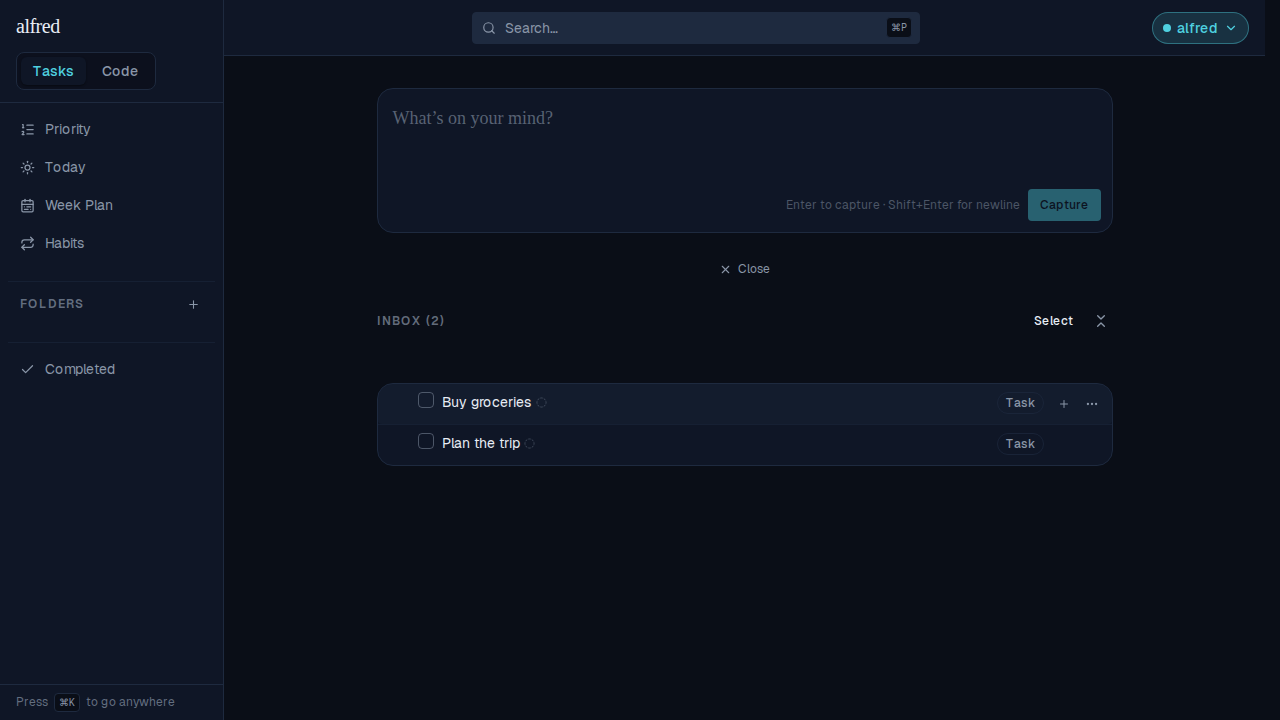
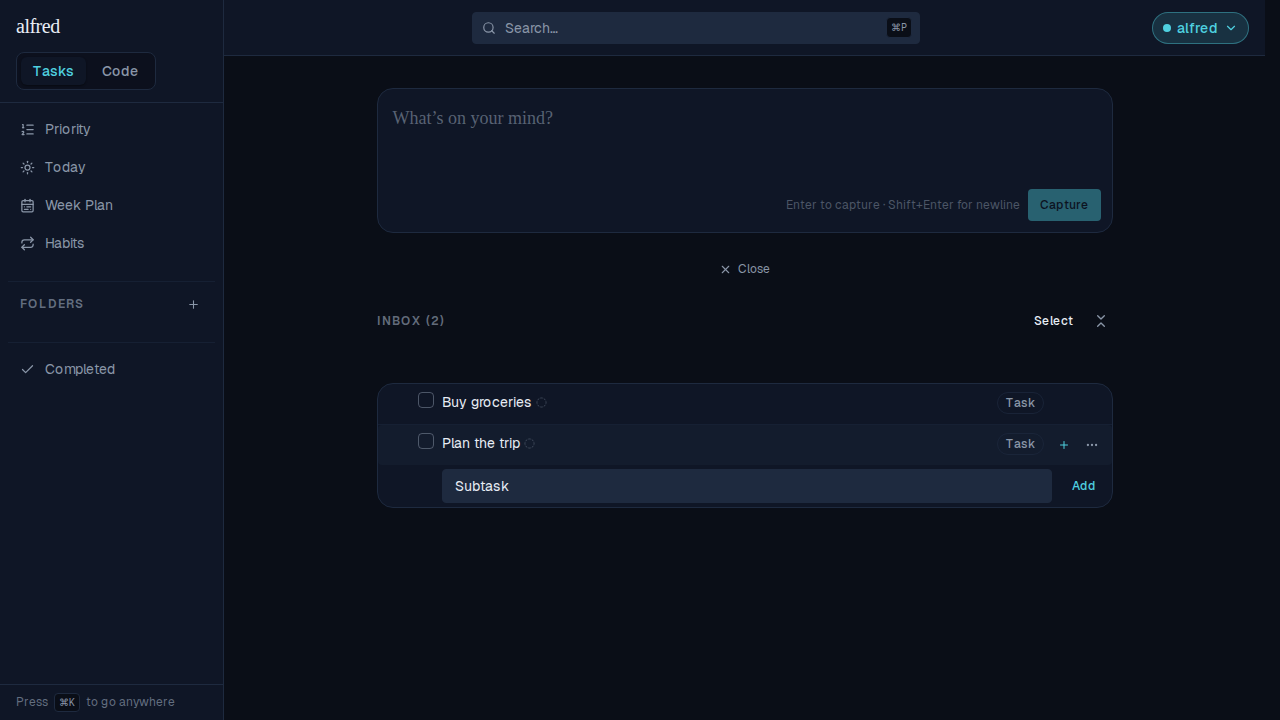
docs(demos): demo the net-new unfocused-dismiss behavior for alf-127

Changed region(s): [[0.3438, 0.6417, 0.875, 0.7028]]

diff --git a/docs/demos/ALF-127-subtask-dismiss-click-outside/subtask-dismiss-click-outside.md b/docs/demos/ALF-127-subtask-dismiss-click-outside/subtask-dismiss-click-outside.md
@@ -2,20 +2,22 @@
 branch: claude/dismiss-subtask-entry-click-0mpez0
 ---
 
-# Click outside dismisses the add-subtask entry
+# Dismissing the add-subtask entry while unfocused
 
-*2026-09-10T21:53:22.858Z*
+*2026-09-11T17:51:22.175Z*
 
-ALF-127: clicking anywhere outside the inline "Add subtask" entry dismisses it and discards whatever was typed — the same as pressing Escape (ALF-66), and regardless of whether the field currently holds focus.
+ALF-127's actual bug: the add-subtask entry's only dismissal path was the field's own blur event. After a touch "Add" tap (ALF-98), the field deliberately stays open — ready for the next subtask — with focus landing nowhere, because that tap's blur is skipped on purpose so the submit isn't cut off. From that state no further blur can ever fire, so a later outside press had nothing left to dismiss. The fix adds a second, focus-independent dismiss: an outside pointer press now closes the entry via the same document-level listener the detail panel already uses (ALF-78's useDismiss), scoped to the row, regardless of what currently holds focus.
 
-The mouse-driven case below already worked: CaptureBox's compact form dismisses as soon as it *loses* focus, and a real browser blurs a focused input on any outside press by default. But that mechanism only fires when the field actually has focus to lose. After a touch "Add" tap (ALF-98) the field stays open — ready for the next subtask — with focus landing nowhere, since the tap's blur is deliberately skipped so the submit isn't cut off. From that state, no further blur ever fires, so a later outside press had nothing to dismiss it. The fix adds a second, focus-independent dismiss: an outside pointer press now closes the entry via the same document-level listener the detail panel already uses (ALF-78's `useDismiss`, scoped to the row), so it closes whether or not anything inside it is focused.
-
-Before: the "Plan the trip" row's Add-subtask field is open with unsaved text ("Half-typed subtask").
+1. Start: the field is open and focused (the ring on the input) after typing — this ordinary case already dismissed correctly before this PR, via a plain blur.
 
 ![](subtask-dismiss-click-outside-image-1.png)
 
-After: a single click on the unrelated "Buy groceries" row closes the field and discards the unsaved text — no subtask is created.
+2. THE BUG'S PRECONDITION: reproducing the touch-tap sequence (pointerdown on Add, then a blur with the pressing-submit guard active) strands the field open with the focus ring gone — nothing inside it is focused, same as after a real mobile "Add" tap. Note the input no longer carries the teal ring.
 
 ![](subtask-dismiss-click-outside-image-2.png)
 
-Regression coverage: frontend/components/tasks/task-row.test.tsx ("TaskRow — dismissing the add-subtask entry on an outside click (ALF-127)") pins the outside-dismiss, the discard-unsaved-text, and the stays-open-inside-it cases at the unit level, plus the specific bug this PR fixes — "closes on an outside press even after the field already lost focus without dismissing" — which reproduces the touch-submit sequence (pointer-down on Add, a real `.blur()`, then submit) that leaves the field open with nothing focused, then asserts an outside press still closes it. frontend/e2e/subtask-dismiss-click-outside.spec.ts reproduces the general mouse journey shown above against a real browser, since jsdom can't replicate default focus-loss on a plain outside click.
+3. THE NET-NEW BEHAVIOR: from that exact stranded state, a single click on the unrelated "Buy groceries" row now closes the field. Before this fix, nothing could dismiss it from here — there was no focus left to blur, so an outside click did nothing and the field stayed stuck open indefinitely.
+
+![](subtask-dismiss-click-outside-image-3.png)
+
+Regression coverage: frontend/components/tasks/task-row.test.tsx ("TaskRow — dismissing the add-subtask entry on an outside click (ALF-127)") pins the general outside-dismiss and discard-unsaved-text cases, plus the specific defect this PR fixes — "closes on an outside press even after the field already lost focus without dismissing" — which reproduces the same touch-submit sequence shown above at the unit level and was confirmed to fail without the fix and pass with it.
